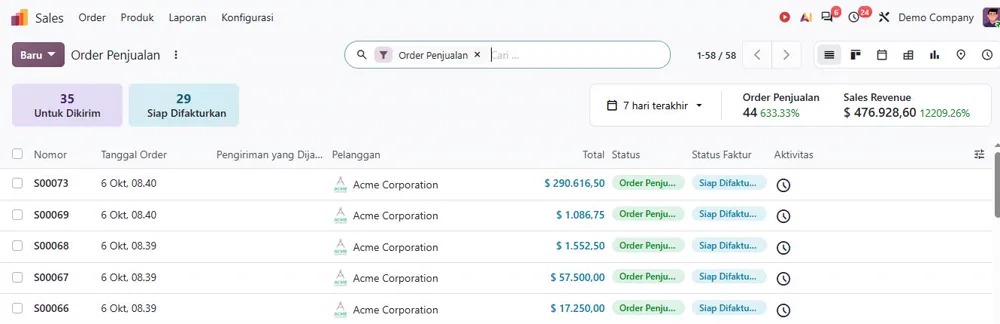
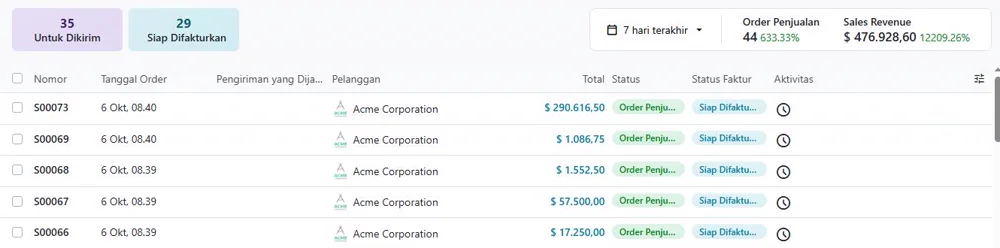
Hero implementasi-odoo: Dashboard reporting Akuntansi Odoo 20 + crop kartu Modul lebih fokus
Hero: dashboard Keuangan/Akuntansi (periode Oktober 2026) - KPI penghasilan,
piutang, pengeluaran, utang, grafik Telah Difakturkan, tabel Cash & Profitabilitas
(2 screenshot berurutan disambung). Kartu Penjualan, Akuntansi, Inventaris,
Pembelian di-crop ke area yang relevan.

diff --git a/implementasi-odoo/index.html b/implementasi-odoo/index.html
@@ -90,8 +90,8 @@ height="0" width="0" style="display:none;visibility:hidden"></iframe></noscript>
       <!-- Screenshot asli: demo Odoo 20 Enterprise (data contoh) -->
       <div class="hero__visual">
         <figure class="shot shot--hero">
-          <div class="shot__bar" aria-hidden="true"><i></i><i></i><i></i><span>Odoo · CRM Pipeline</span></div>
-          <img src="../assets/odoo/hero-crm-pipeline.webp" alt="Pipeline CRM di Odoo 20 Enterprise dengan tahap Baru, Berkualifikasi, Proposisi, dan Berhasil" width="1330" height="574" fetchpriority="high" />
+          <div class="shot__bar" aria-hidden="true"><i></i><i></i><i></i><span>Odoo · Dashboard Akuntansi</span></div>
+          <img src="../assets/odoo/hero-accounting-dashboard.webp" alt="Dashboard reporting Akuntansi di Odoo 20 Enterprise: penghasilan, piutang, pengeluaran, utang, grafik faktur, serta tabel cash dan profitabilitas" width="1012" height="740" fetchpriority="high" />
         </figure>
         <div class="float float--a" aria-hidden="true"><small>Closing keuangan</small><b>1 hari</b></div>
         <div class="float float--b" aria-hidden="true"><small>Stok tersinkron</small><b>4 gudang</b></div>
@@ -180,14 +180,14 @@ height="0" width="0" style="display:none;visibility:hidden"></iframe></noscript>
           </div>
           <figure class="shot">
             <div class="shot__bar" aria-hidden="true"><i></i><i></i><i></i><span>Odoo · Penjualan</span></div>
-            <img src="../assets/odoo/sales-orders.webp" alt="Daftar Order Penjualan di Odoo dengan total Sales Revenue dan status faktur" width="1000" height="324" loading="lazy" />
+            <img src="../assets/odoo/sales-orders.webp" alt="Daftar Order Penjualan di Odoo dengan total Sales Revenue dan status faktur" width="1000" height="248" loading="lazy" />
           </figure>
         </article>
 
         <article class="tile tile--map">
           <figure class="shot">
             <div class="shot__bar" aria-hidden="true"><i></i><i></i><i></i><span>Odoo · Inventaris</span></div>
-            <img src="../assets/odoo/inventory-overview.webp" alt="Gambaran Umum Inventaris di Odoo: penerimaan dan order pengiriman" width="1000" height="248" loading="lazy" />
+            <img src="../assets/odoo/inventory-overview.webp" alt="Kartu Order Pengiriman di Gambaran Umum Inventaris Odoo" width="700" height="342" loading="lazy" />
           </figure>
           <div class="tile__text">
             <h3>Inventory multi-gudang</h3>
@@ -202,14 +202,14 @@ height="0" width="0" style="display:none;visibility:hidden"></iframe></noscript>
           </div>
           <figure class="shot">
             <div class="shot__bar" aria-hidden="true"><i></i><i></i><i></i><span>Odoo · Akuntansi</span></div>
-            <img src="../assets/odoo/accounting-dashboard.webp" alt="Dashboard Akuntansi Odoo: faktur, pengeluaran, piutang, dan utang" width="1000" height="306" loading="lazy" />
+            <img src="../assets/odoo/accounting-dashboard.webp" alt="Dashboard Akuntansi Odoo: total faktur, pengeluaran, dan jurnal penjualan" width="700" height="348" loading="lazy" />
           </figure>
         </article>
 
         <article class="tile">
           <figure class="shot">
             <div class="shot__bar" aria-hidden="true"><i></i><i></i><i></i><span>Odoo · Pembelian</span></div>
-            <img src="../assets/odoo/purchase-order.webp" alt="Form Permintaan Penawaran pembelian di Odoo dengan tombol Konfirmasi Order" width="1000" height="394" loading="lazy" />
+            <img src="../assets/odoo/purchase-order.webp" alt="Form Permintaan Penawaran pembelian di Odoo dengan tombol Konfirmasi Order" width="900" height="298" loading="lazy" />
           </figure>
           <div class="tile__text">
             <h3>Pembelian &amp; approval</h3>
